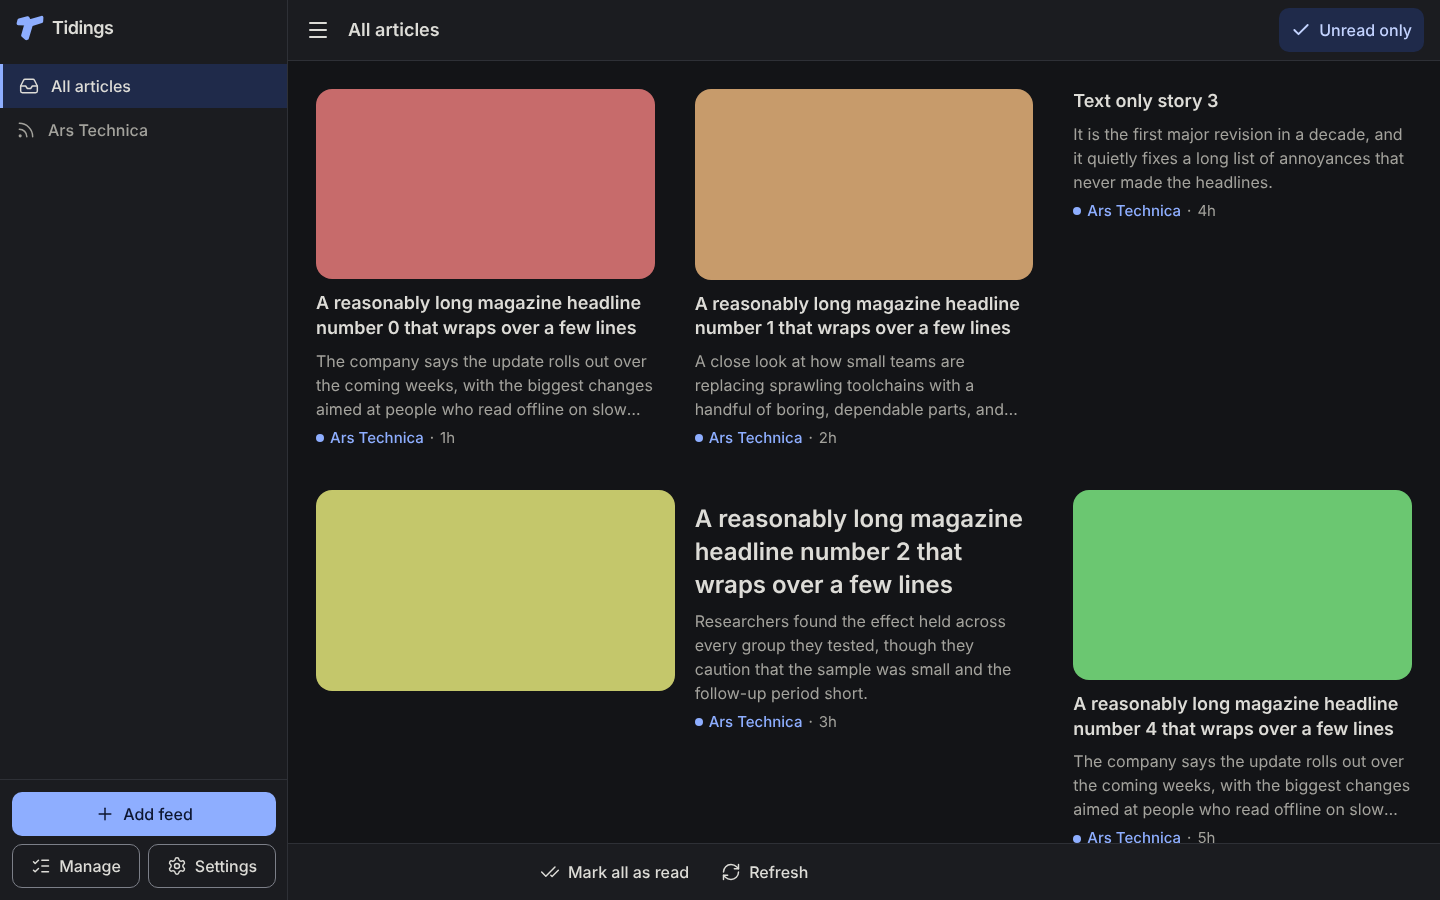
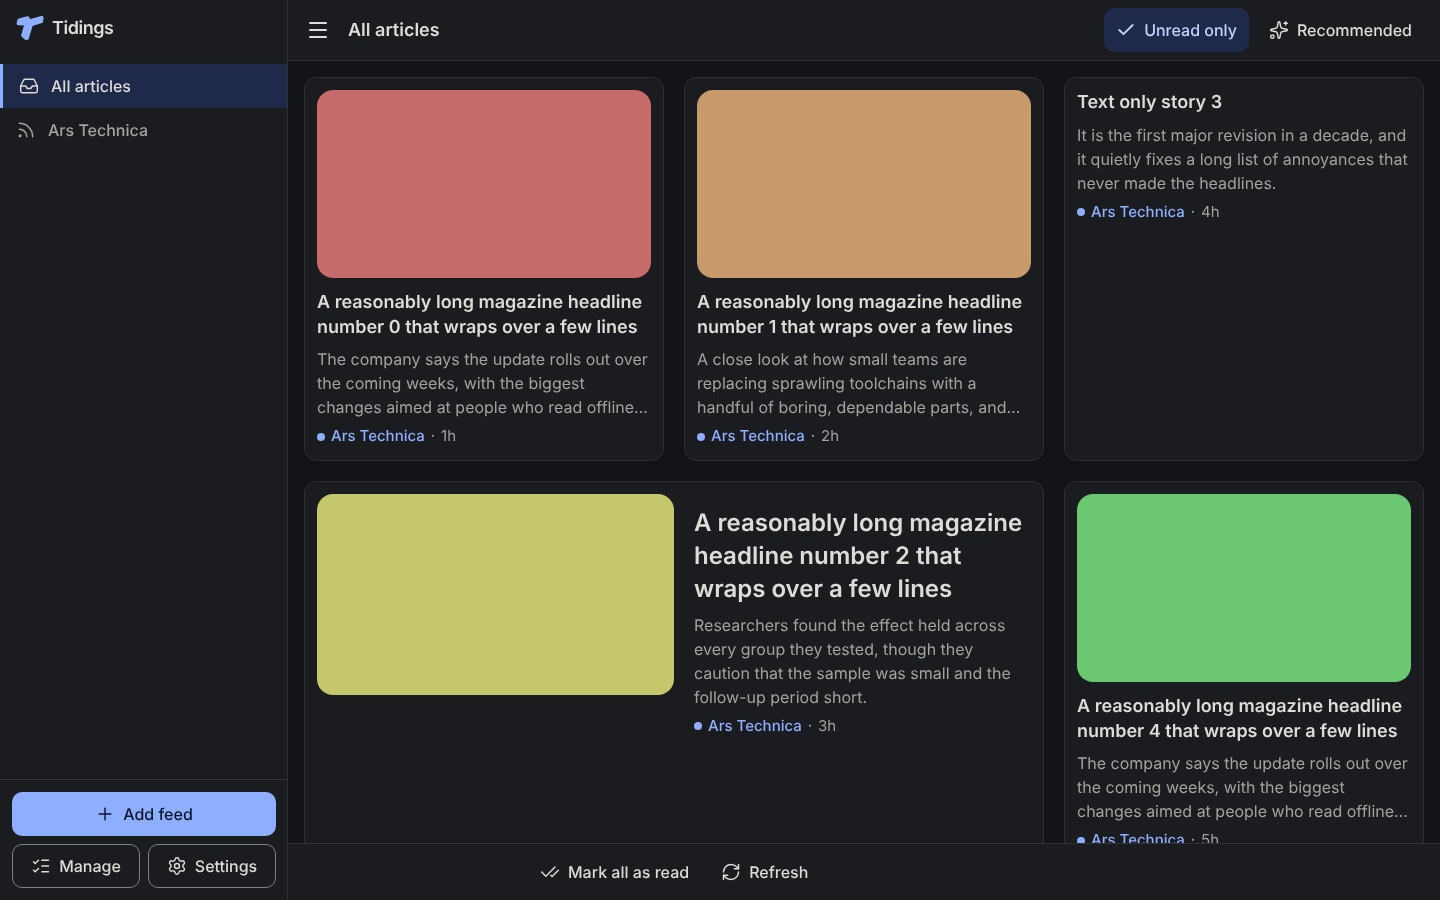
TID-062: Wider desktop grid with 4 columns and bordered cards
The list column widens to 100rem; columns are 2 (lg), 3 (xl) and 4 (2xl) with the sidebar,
one more when it is hidden. Desktop cards get a border, surface background and subtle shadow
so their edges are clear.

Claude-Session: https://claude.ai/code/session_01NbhkL8UQSEDXj7zvYhp7qd

diff --git a/e2e/specs/tid-062-desktop-layout.spec.ts b/e2e/specs/tid-062-desktop-layout.spec.ts
@@ -91,7 +91,7 @@ test('the Menu button hides and restores the sidebar, and the choice is remember
   await expect(sidebar).toBeVisible();
 });
 
-test('the list is a card grid: 3 columns at 1280, 2 at 1100 with the sidebar, 3 when hidden', async ({
+test('the list is a card grid: 2 columns at 1100, 3 at 1280, 4 at 1600 with the sidebar; one more when hidden', async ({
   page,
 }) => {
   await mockEntries(page);
@@ -102,6 +102,14 @@ test('the list is a card grid: 3 columns at 1280, 2 at 1100 with the sidebar, 3 
   expect(await columns(page)).toBe(2);
   await page.getByRole('button', { name: 'Hide sidebar' }).click();
   await expect.poll(() => columns(page)).toBe(3);
+  await page.setViewportSize({ width: 1280, height: 800 });
+  await expect.poll(() => columns(page)).toBe(4);
+  await page.getByRole('button', { name: 'Show sidebar' }).click();
+  await page.setViewportSize({ width: 1600, height: 900 });
+  await expect.poll(() => columns(page)).toBe(4);
+  // Cards are bordered surfaces on desktop, so each one's edges are visible.
+  const firstCard = page.getByTestId('article-grid').locator('li a').first();
+  expect(await firstCard.evaluate((el) => getComputedStyle(el).borderTopWidth)).not.toBe('0px');
 
   const cards = page.getByTestId('article-grid').locator('li');
   // Text-only cards have no image box; image cards are 16:9 on top of the title.

diff --git a/apps/web/src/shell/AppShell.tsx b/apps/web/src/shell/AppShell.tsx
@@ -228,7 +228,7 @@ export function AppShell() {
                 <div className="sticky top-0 z-20 shrink-0">
                   <header className="border-b border-line bg-surface pl-[max(1rem,env(safe-area-inset-left))] pr-[max(1rem,env(safe-area-inset-right))] pt-[env(safe-area-inset-top)]">
                     <div
-                      className={`flex min-h-14 items-center gap-2 py-2 lg:mx-auto ${wide ? 'lg:max-w-6xl' : 'lg:max-w-2xl'}`}
+                      className={`flex min-h-14 items-center gap-2 py-2 lg:mx-auto ${wide ? 'lg:max-w-[100rem]' : 'lg:max-w-2xl'}`}
                     >
                       {showBack ? (
                         <button
@@ -290,7 +290,7 @@ export function AppShell() {
                   className="min-h-0 flex-1 overflow-y-auto overscroll-y-auto pl-[max(1rem,env(safe-area-inset-left))] pr-[max(1rem,env(safe-area-inset-right))] lg:overflow-visible"
                 >
                   <div
-                    className={`mx-auto max-w-2xl py-4 pb-[max(1rem,env(safe-area-inset-bottom))] ${wide ? 'lg:max-w-6xl' : ''}`}
+                    className={`mx-auto max-w-2xl py-4 pb-[max(1rem,env(safe-area-inset-bottom))] ${wide ? 'lg:max-w-[100rem]' : ''}`}
                   >
                     <PasskeyBanner />
                     <Outlet />

diff --git a/apps/web/src/lists/ArticleRow.tsx b/apps/web/src/lists/ArticleRow.tsx
@@ -10,7 +10,7 @@ import { rowLayout } from './rowLayout';
  * `lg` once the sidebar is hidden (the column is the full ~1024px). Below `lg` it stays one column.
  */
 export const LIST_GRID =
-  'lg:grid lg:grid-flow-dense lg:grid-cols-2 lg:gap-4 xl:grid-cols-3 group-data-[sidebar=hidden]/shell:lg:grid-cols-3';
+  'lg:grid lg:grid-flow-dense lg:grid-cols-2 lg:gap-5 xl:grid-cols-3 2xl:grid-cols-4 group-data-[sidebar=hidden]/shell:lg:grid-cols-3 group-data-[sidebar=hidden]/shell:xl:grid-cols-4';
 
 /**
  * One article in a list (FR-RD-5), in one of three layouts (TID-060): thumbnail on the left with
@@ -57,7 +57,7 @@ export function ArticleRow({
     >
       <Link
         to={to}
-        className={`-mx-4 min-h-11 px-4 py-4 hover:bg-sunken active:bg-sunken lg:mx-0 lg:h-full lg:rounded-xl lg:p-3 ${
+        className={`-mx-4 min-h-11 px-4 py-4 hover:bg-sunken active:bg-sunken lg:mx-0 lg:h-full lg:rounded-xl lg:border lg:border-line lg:bg-surface lg:p-3 lg:shadow-sm lg:hover:border-line-strong lg:hover:bg-sunken ${
           hero
             ? 'block lg:flex lg:items-start lg:gap-5'
             : 'flex items-start gap-3 lg:flex-col lg:gap-0'
